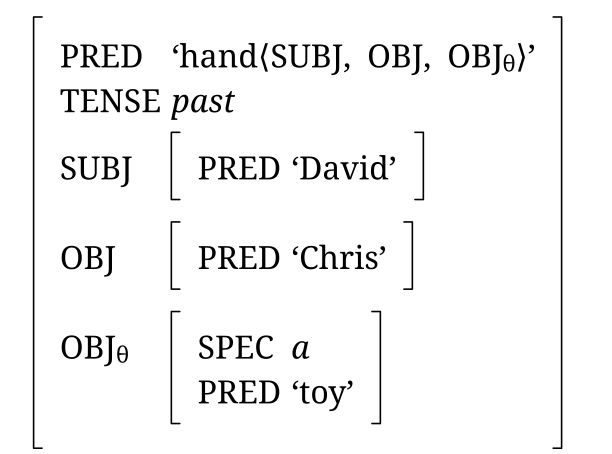
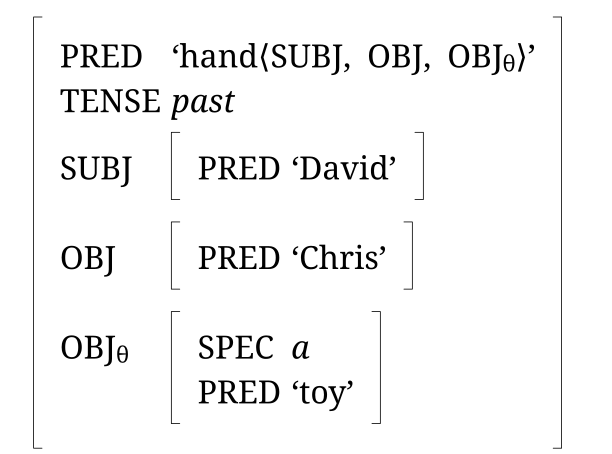
Draw the f-structure at the lighter line as well
The LFG f-structure was left at the default weight when the two HPSG
matrices went to 0.5, so that the same kind of drawing could be seen at
both weights. That comparison has served its purpose. It is a figure
made mostly of brackets, and at the default weight the outer bracket
reads heavier than a serif stem, which is not how a feature structure
is set.

diff --git a/docs/_examples/078.md b/docs/_examples/078.md
@@ -7,7 +7,7 @@ polyline: "off"
 symmetrization: "off"
 connector: "bar"
 connector_height: "1.0"
-linewidth: "1"
+linewidth: "0.5"
 hide_default_connectors: "off"
 tidy: "low"
 font: "Noto Serif"
